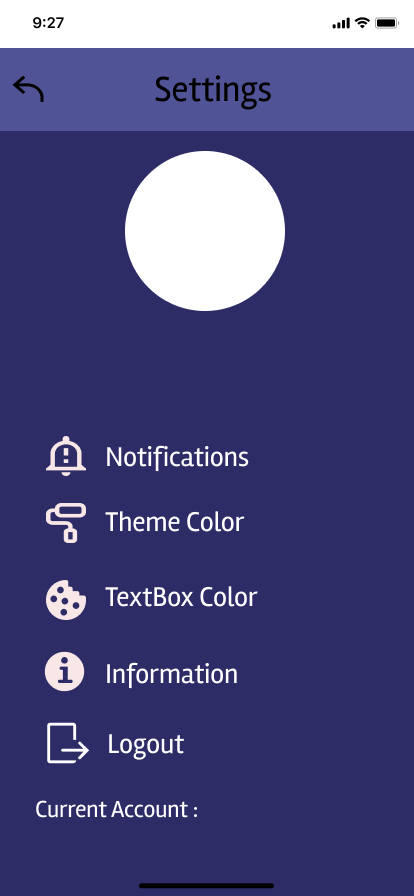
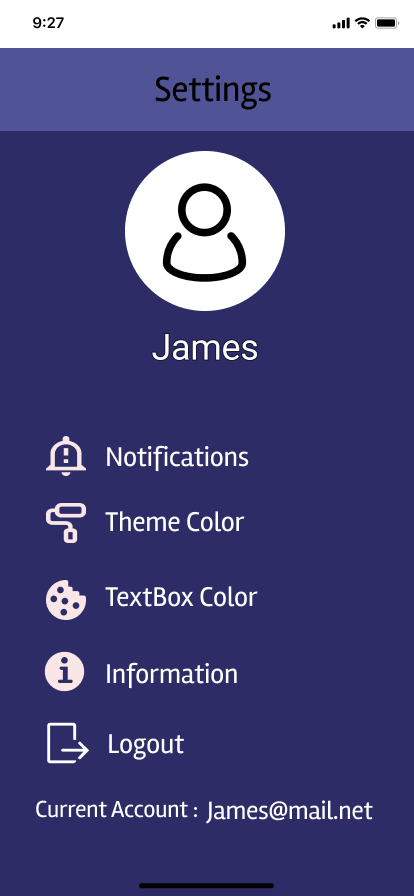
Update SettingPage

diff --git a/src/SettingPage.js b/src/SettingPage.js
@@ -1,0 +1,24 @@
+import {Link} from 'react-router-dom'
+
+
+function SettingPage() {
+
+    return(
+
+        <div className = "SettingPage">
+            <div className = "Undo2" >
+                <Link to = "/HomePage">
+                    <img src = "Union(1).png" alt = "" /> 
+                </Link> 
+            </div>
+            <div className  = "LogOut">
+            <Link to = "/">
+                    <img src = "LogOut.png" alt = "" /> 
+                </Link>
+            </div>
+        </div>
+
+    )   
+};
+
+export default SettingPage;

diff --git a/src/AppMat.css b/src/AppMat.css
@@ -128,3 +128,27 @@
     left: 353px;
     top: 845px;
 }
+
+.SettingPage{
+    margin: auto;
+    position: relative;
+    width: 414px;
+    height: 896px;   
+    background-image: url(/src/AppchatUpdate/Setting.png);
+    box-shadow: 0px 4px 4px rgba(0, 0, 0, 0.25);
+}
+.Undo2{
+    position: absolute;
+    width: 28.54px;
+    height: 23.84px;
+    left: 14px;
+    top: 77px;
+}
+
+.LogOut{
+    position: absolute;
+    width: 178.78px;
+    height: 51.22px;
+    left: 47.22px;
+    top: 722.78px;
+}

diff --git a/src/Router.js b/src/Router.js
@@ -5,12 +5,17 @@ import RegisterNextStep from './RegisterNextStep';
 import LoginApp from './LoginApp'
 import LoginPage from './LoginPage'
 import HomePage from './HomePage'
+import SettingPage from './SettingPage'
 
 
 function Router() {    
     return(
         <BrowserRouter>
           <Switch>
+
+          <Route path = "/SettingPage">
+            <SettingPage />
+          </Route>
 
           <Route path = "/HomePage">
             <HomePage />

diff --git a/src/HomePage.js b/src/HomePage.js
@@ -21,7 +21,7 @@ function HomePage() {
             </Link>
         </div>
         <div className = "SettingBar">
-            <Link to = "/SettingBar">
+            <Link to = "/SettingPage">
             <img src = "SettingBar.Png" alt = "" />
             </Link>
         </div>
